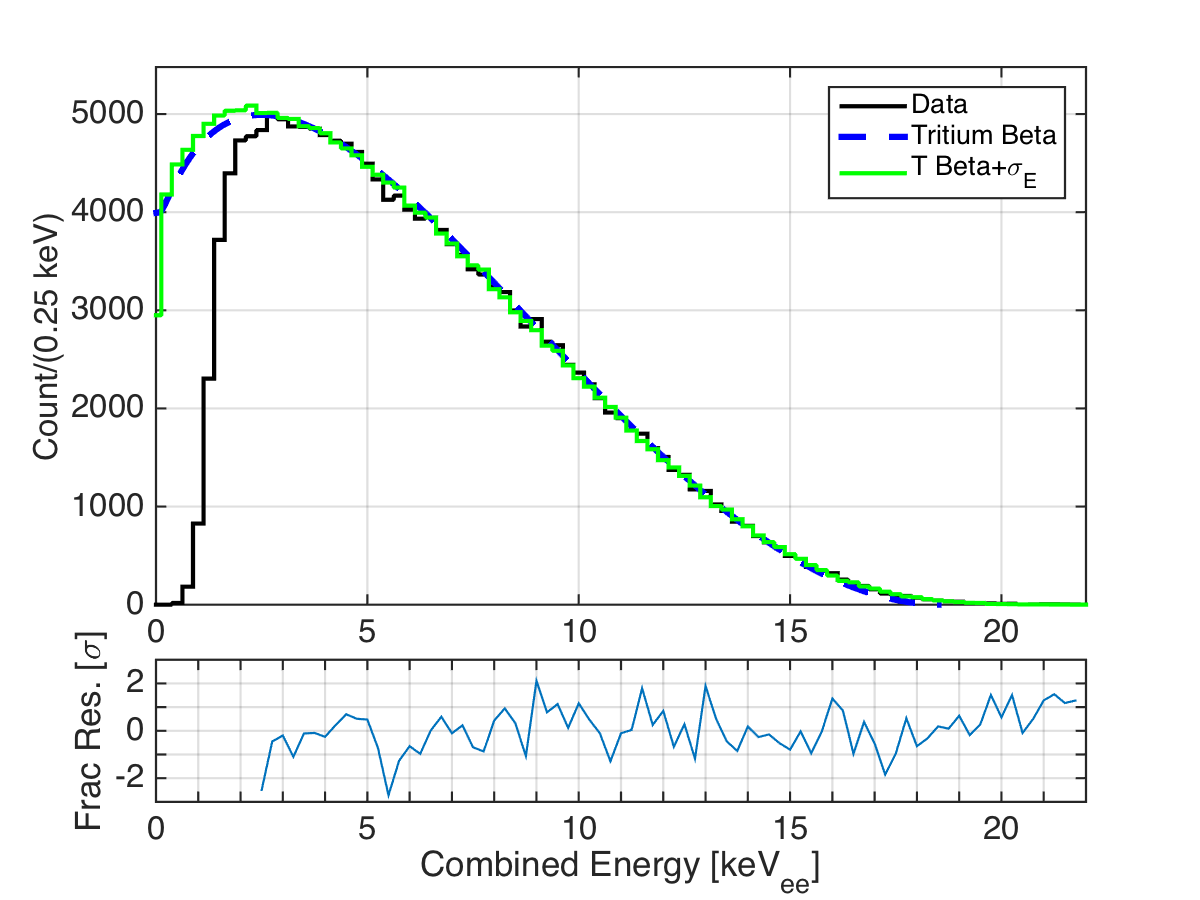
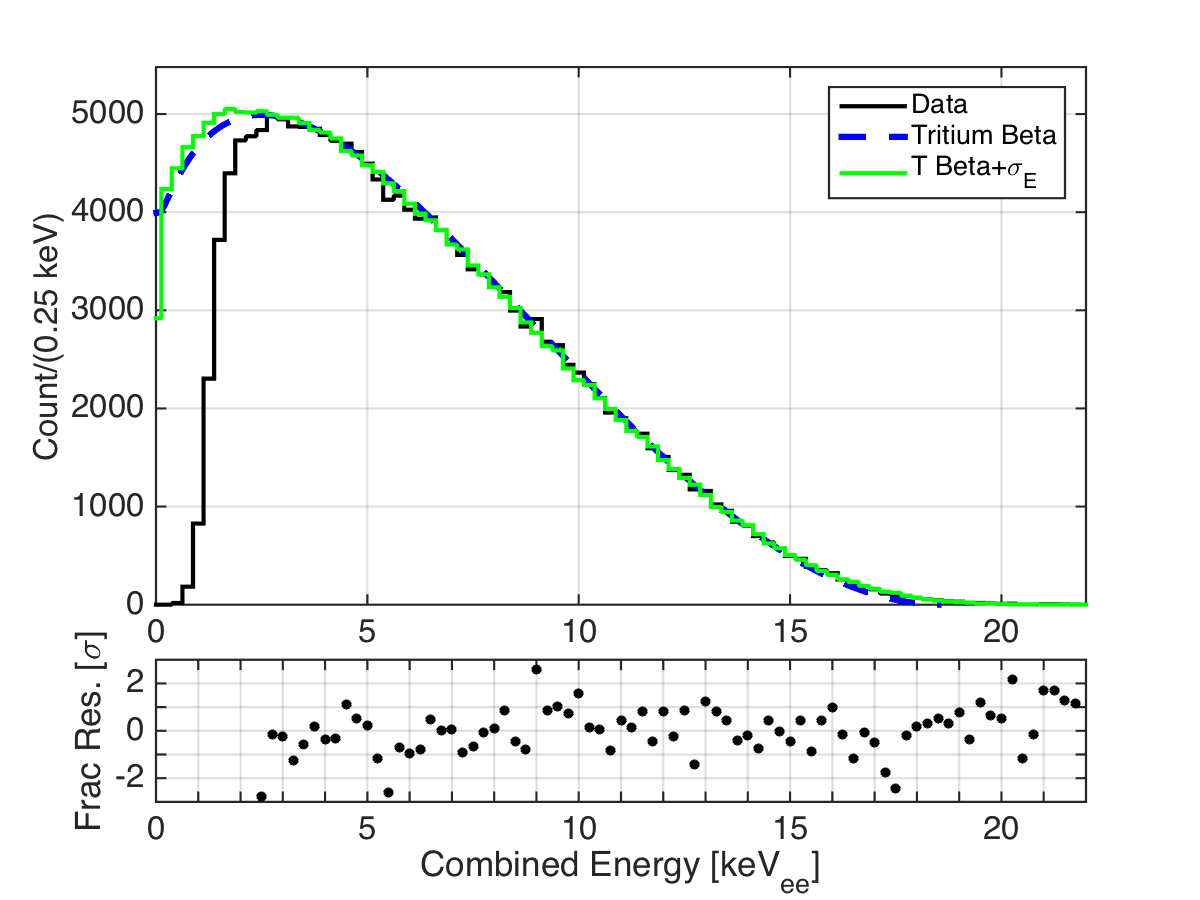
Update to Results Section text and plots

diff --git a/TritiumSVN/Results.tex b/TritiumSVN/Results.tex
@@ -1,41 +1,47 @@
 \section{Results}
 
-At the conclusion of the initial LUX science run, in December of 2013, a total of 10 Bq of tritium was injected into LUX and removed. A total 325,000 events were observed in the active volume of LUX. 183,000 events occurred in the fiducial volume at the nominal LUX electric field of 180 V/cm, while 4,500 fiducial events were collected in a special run at a reduced field of 100 V/cm. The S1 and S2 signals are corrected for spatial effects such as the light collection efficiency and the free electron lifetime with $^{83m}$Kr data as described in \cite{lux-reanalysis} and in further detail in \cite{Dobi_Thesis}. 
+At the conclusion of the initial LUX science run, in December of 2013, a total of 10 Bq of tritium was injected into LUX and removed. A total 325,000 events were observed in the active volume of LUX. 183,000 events occurred in the fiducial volume at the nominal LUX electric field of 180 V/cm with about 4 of those being due to non-tritium energy deposits. Another set with 4,500 fiducial events was collected in a special run at a reduced field of 105 V/cm. The S1 and S2 signals are corrected for spatial effects such as the light collection efficiency and the free electron lifetime with $\rm ^{83m}$Kr data as described in \cite{lux-reanalysis} and in further detail in \cite{Dobi_Thesis}. 
 
-We interpret the data in terms of the combined energy model \cite{Platzman}, where the total energy of an event is directly proportional to the number of quanta produced (electrons plus scintillation photons):
+For an electronic recoil (ER), the light and charge created result from excitation and ionization produced by the recoiling electron. Excitons and recombining electron ion pairs will each produce a single 175 nm photon, electrons that escape recombination are extracted at the expense of a single photon. We interpret the data in terms of the combined energy model for electron recoils \cite{Platzman}, where the total energy of an event is directly proportional to the number of quanta produced (electrons plus scintillation photons):
 
-\begin{displaymath}
+\begin{equation}
+\begin{split}
+\rm E_{total}= W \cdot (n_i + n_{ex}) \\
 \rm E_{total} = W \cdot (n_{\gamma} + n_e )
-\end{displaymath}
+\label{platzman_eq}
+\end{split}
+\end{equation}
 
 \noindent
-We use a $W$ value of 13.7 $\rm \pm$ 0.2 eV/quanta \cite{Dahl_Thesis}. In LUX $n_{\gamma}$ and $n_e$ are proportional to the S1 and S2 signals, with gain factors $g_1$ and $g_2$:
+Where $\rm E_{total}$ is the energy of the deposition in keV and $\rm n_i$, $\rm n_{ex}$, $\rm n_\gamma$ and $\rm n_e$ are the number of ions, excitons, photons and electrons respectively.We use a $W$ value of 13.7 $\rm \pm$ 0.2 eV/quanta \cite{Dahl_Thesis}, as discussed in section \ref{sec:LXe_Theory}. In LUX $n_{\gamma}$ and $n_e$ are proportional to the S1 and S2 signals, with gain factors $g_1$ and $g_2$: 
+%We use a $W$ value of 13.7 $\rm \pm$ 0.2 eV/quanta \cite{Dahl_Thesis}. In LUX $n_{\gamma}$ and $n_e$ are proportional to the S1 and S2 signals, with gain factors $g_1$ and $g_2$:
 
-\begin{displaymath}
+\begin{equation}
 \rm E_{total} = W \cdot \left(\frac{S1}{g_1} + \frac{S2}{g_2} \right)
-\end{displaymath}
+\label{energy_eq}
+\end{equation}
 
 \noindent
-where S1 and S2 have units of photons detected (phd) and $g_1$ and $g_2$ have units of phd per quanta. $g_1$ is the average light collection efficiency times the average quantum efficiency of the PMT arrays, while $g_2$ is the product of the electron extraction efficiency at the liquid-gas surface and the average single electron size in phd. $g_1$ and $g_2$ were measured for the science run with line source data in LUX as described in Ref. \cite{lux-reanalysis, lux-prd}. For the December 2013 analysis presented in this paper the gains g1 and g2 are constrained by optimizing combined energy model to the true tritium spectral shape \cite{Tritium_Eq_Simpson} convolved with detector resolution \cite{Dobi_Thesis}. We find values of \fixit{$g_1$ = \gone and $g_2$ = \gtwo}, consistent with the values found for the science run.
+where S1 and S2 have units of photons detected (phd) and $g_1$ and $g_2$ have units of phd per quanta. $g_1$ is the average light collection efficiency times the average quantum efficiency of the PMT arrays, while $g_2$ is the product of the electron extraction efficiency at the liquid-gas surface and the average single electron size in phd. $g_1$ and $g_2$ were measured for the science run with line source data in LUX as described in Ref. \cite{lux-reanalysis, lux-prd}. For the December 2013 analysis presented in this paper the gains g1 and g2 are constrained by optimizing the combined energy model to the true tritium spectral shape \cite{Tritium_Eq_Simpson} convolved with detector resolution \cite{Dobi_Thesis}. We find values of $g_1$ = \gone and  $g_2$ = \gtwo, consistent with the values found for the science run.
 
 \begin{figure}[h!]\centering
 \includegraphics[width=90mm]{fig/tritium_scatter.png}
 \caption{Scatter plot of $n_e$ vs $n_{\gamma}$ for 149,000 fiducial tritium events at 180 V/cm. Lines of constant energy are indicated assuming a $W$ value of 13.7 eV/quanta. The data is projected into $n_e$ and $n_{\gamma}$ histograms on each axis.}
-\label{fig:tritium_scatter}
+\label{fig:tritium-scatter}
 \end{figure}
 
 
 \begin{figure}[h!]
 \begin{center}
 \includegraphics[width=90mm]{fig/tritium-spectrum-linear.png}
-\caption{The tritium energy spectrum measured by LUX with the combined energy model (black) compared to several theory models: a pure tritium spectrum (dashed blue), and a tritium spectrum convolved with detector resolution $\frac{\sigma_E}{W} = \sqrt{\sigma_{n_\gamma}^2 + \sigma_{n_e}^2}$ applied, described in \cite{Dobi_Thesis}. }
+\caption{The tritium energy spectrum measured by LUX with the combined energy model (black) compared to several theory models: a pure tritium spectrum (dashed blue), and a tritium spectrum convolved with detector resolution $\rm \frac{\sigma_E}{W} = \sqrt{\sigma_{n_{\gamma_{Det}}}^2 + \sigma_{n_{e_{Det}}}^2}$, described in \cite{Dobi_Thesis}. }
 \label{fig:tritium-spectrum}
 \end{center}
 \end{figure}
 
+%S1 ($\rm \sigma_{n_{\gamma_{Det}}})$ and S2 ($\rm \sigma_{n_{e_{Det}}}$)
 
-
-A scatter plot of $n_e$ vs $n_{\gamma}$ for the tritium data at 180 V/cm is shown in Fig. \ref{fig:tritium-scatter}, along with the projected histograms on each axis. The tritium energy spectrum, obtained by projecting the data along the lines of constant energy, is shown in Fig. \ref{fig:tritium-spectrum}. The data is compared to several models: a pure tritium spectrum, with no detector effects; a spectrum simulated with LUXsim, and a tritium spectrum with a simple energy smearing factor of $\sigma_E = XXXX$ applied. The ratio of the data to the smeared tritium spectrum is shown in Fig. \ref{fig:ER-threshold}, along with a fit to an error function. The ratio indicates that the data is well modeled by the smeared tritium spectrum, and the effective 50\% energy threshold is found to be 1.04 $\pm$ 0.016 keV. 
+A scatter plot of $n_e$ vs $n_{\gamma}$ for the tritium data at 180 V/cm is shown in Fig. \ref{fig:tritium-scatter}, along with the projected histograms on each axis. Contours of constant energy in 1 keV intervals are also plotted, derived from equation \ref{platzman_eq}. Individual events on the plot are smeared by detector resolution and electron-ion pair recombination fluctuations. Detector resolution is comprised of statistical fluctuations in counting photons and electrons in the S1 and S2 channel. The finite resolution in S1 and S2 smear events along the vertical and horizontal axis, respectively. Recombination fluctuations ($\rm \sigma_R$) smear events along the contours of constant energy, and thus cancel out in the combined energy model of Eq.\ref{platzman_eq}. The tritium energy spectrum, obtained by projecting the data along the lines of constant energy, is shown in Fig. \ref{fig:tritium-spectrum}. The data is compared a pure tritium spectrum \cite{Tritium_Eq_Simpson}, with no detector effects, and a tritium spectrum with energy smearing factor of $\rm \frac{\sigma_E}{W} = \sqrt{\sigma_{n_{\gamma_{Det}}}^2 + \sigma_{n_{e_{Det}}}^2}$, described in \cite{Dobi_Thesis}, where $\rm \sigma_{n_{\gamma_{Det}}}$ and $\rm \sigma_{n_{e_{Det}}}$ represent the detector resolution for photon and electron counting. The ratio of the data to the theoretical spectrum is shown in Fig. \ref{fig:ER-threshold}, along with a fit to an error function. The ratio is used to calculate the energy threshold of the detector, the effective 50\% energy threshold is found to be 1.30 $\pm$ 0.013 keV. The good agreement between data and theory to the end of the tritium spectrum demonstrates the linearity of the energy model in Eq.\ref{platzman_eq} down to 2 keV.
 
 \begin{figure}[h!]\centering
 \includegraphics[width=90mm]{fig/E_Thres_Fit.png}
@@ -43,20 +49,30 @@ A scatter plot of $n_e$ vs $n_{\gamma}$ for the tritium data at 180 V/cm is show
 \label{fig:ER-threshold}
 \end{figure}
 
-The mean light yield and charge yield of ER events in LUX are obtained by dividing the mean light and charge signals by the combined energy in each energy bin. The result is shown for 180 V/cm in Fig. \ref{fig:ER-LY-QY}. For these plots a small correction has been applied to the data to account for smearing of tritium events across energy bins due to the detector's resolution \cite{Dobi_Thesis}. 
+The mean light yield and charge yield of ER events in LUX are obtained by dividing the mean light and charge signals by the combined energy in each energy bin. The result is shown for 180 V/cm and 105 V/cm in Fig. \ref{fig:ER-LY-QY} along with NEST model predictions at each field \cite{NEST_2013}. For these plots a small correction has been applied to the data to account for smearing of tritium events across energy bins due to the detector's resolution and the spectral shape \cite{Dobi_Thesis}. We find agreement with Compton scattering measurements of light yield for electron recoils in xenon, shown in Fig. \ref{fig:Re_LY}. At these low energies betas and gammas leave similar track lengths and produce identical yields \cite{NEST_2013}. The calibration using the tritium beta source is applicable to the Compton scatter gamma backgrounds for the WIMP search. Finally, when calibrating with tritiated methane less than 1 part per trillion of methane is mixed into the xenon. We have verified by using an internal $^{83m}Kr$ calibration source that even 1 part per million of methane is too small quench light yield in liquid xenon \cite{Dobi_Thesis}.
 
 \begin{figure}[h!]\centering
 \includegraphics[width=90mm]{fig/ER_LY.png}
 \includegraphics[width=90mm]{fig/ER_QY.png}
-\caption{The light yield and charge yield of ER events in LUX at 180 V/cm compared to NEST v0.98 (2013). The grey bands indicate the systematic errors on $g_1$ and $g_2$, which are fully correlated across all energy bins. $g_1$ is anti-correlated with $g_2$, such that an increase in the charge yield within the grey band must be compensated by an equivalent decrease in the light yield. Upper: Light yield at 180 V/cm. Lower: the charge yield at 180 V/cm.}
+\caption{The light yield and charge yield of ER events in LUX at 180 V/cm (black) and 105 V/cm (blue) compared to NEST v0.98 (2013). The bands indicate the systematic errors on $g_1$ and $g_2$, which are fully correlated across all energy bins. $g_1$ is anti-correlated with $g_2$, such that an increase in the charge yield within the grey band must be compensated by an equivalent decrease in the light yield. Upper: Light yield. Lower: the charge yield. The solid lines represent the NEST model predictions at each field \cite{NEST_2013}.}
 \label{fig:ER-LY-QY}
 \end{figure}
 
  \begin{figure}[h!]\centering
 \includegraphics[width=88mm]{fig/Re_LY_log.png}
-\caption{Scintillation yield relative to the yield of the 32.1 keV decay $\rm^{83}Kr $  vs. Energy. Shaded blue curve is tritium at 100 [V/cm], shaded black curve is tritium at 180 [V/cm], red circles represent a recent Compton scattering measurement at 450 [V/cm]. }
+\caption{Light yield relative to the light yield of the 32.1 keV decay of $\rm^{83}Kr $ at zero field. Shaded blue curve is tritium at 105 [V/cm], shaded black curve is tritium at 180 [V/cm], red circles represent a recent Compton scattering measurement at zero field and 450 [V/cm]. }
 \label{fig:Re_LY}
 \end{figure}
+
+
+As shown in Fig. \ref{fig:ER-LY-QY}, the light yield is observed to increase rapidly from 1 and 6 keV, and then becomes mostly energy independent over the remainder of the tritium spectrum. The charge yield exhibits the complimentary behavior as the sum of the two is a constant equal to $\rm \frac{1}{W}=73$. These effects can also be illustrated by plotting the total number of quanta (photons and electrons or excitons and ions) as a function of energy, as shown in Fig. \ref{fig:quanta-vs-energy}. Also shown in Fig. \ref{fig:quanta-vs-energy} are the total number of quanta assuming a $W$ value of 13.7 eV/quanta (black), and the primary number of ions (violet) and excitons (cyan) prior to recombination assuming an initial exciton-to-ion ratio of 0.2 \cite{alpha-value}. We interpret the charge yield data as a measure the recombination fraction at each energy according to
+
+\begin{displaymath}
+r = \frac{\frac{n_{\gamma}}{n_e} - \alpha}{\frac{n_{\gamma}}{n_e} + 1}
+\end{displaymath}
+
+\noindent
+where $r$ is the recombination fraction and $\alpha$ is the initial exciton-to-ion ratio. The recombination fraction as a function of energy as shown in Fig. \ref{fig:recombination}. Here the falling charge yield and rising light yield between 1 and 6 keV appears as a rapid rise in the recombination fraction. 
 
 
 \begin{figure}[h!]\centering
@@ -68,28 +84,25 @@ The mean light yield and charge yield of ER events in LUX are obtained by dividi
 
 \begin{figure}[h!]\centering
 \includegraphics[width=90mm]{fig/recombination.png}
-\caption{Recombination fraction of ER events at 180 V/cm, assuming an exciton-to-ion ratio of 0.2.}
+\caption{Recombination fraction of ER events at 180 V/cm (black) and 105 V/cm (blue), assuming an exciton-to-ion ratio of 0.2.}
 \label{fig:recombination}
 \end{figure}
 
+Having measured the light and charge yield in-situ we have an understanding of the mean of the electron recoil population for the LUX the WIMP search. To complete the picture we need to understand the variance that lead to the width of the electron recoil band. This is comprise of detector resolution, which is measurable and specific to each detector, and recombination fluctuations. At a given energy the event-to-event standard deviation for the number of recombined ions $\rm \sigma_R$ is shown in Fig. \ref{fig:recomb-flucs}, extracted using a method outlined in \cite{Dobi_Thesis}. $\rm \sigma_R$ is a physical property of xenon and produces and irreducible width to the electron recoil band, even with infinite detector resolution. Currently no models exist to predict recombination fluctuations ($\rm \sigma_R$), thus it is important to measure it in-situ. For the LUX detector conditions we find a linear growth in recombination fluctuations as a function of the number of ions $\rm \sigma_R = (0.062 \pm 0.005)\cdot N_{ions}$, consistent with the measurement in \cite{Dobi_Thesis}.
 
-As shown in Fig. \ref{fig:ER-LY-QY}, the light yield is observed to drop rapidly between 1 and 6 keV, and then becomes mostly energy independent over the remainder of the tritium spectrum. The charge yield exhibits the reverse behavior. These effects can also be illustrated by plotting the total number of quanta as a function of energy, as shown in Fig. \ref{fig:quanta-vs-energy} for tritium events between 1 and 8 keV. Also shown in Fig. \ref{fig:quanta-vs-energy} are the total number of quanta assuming a $W$ value of 13.7 eV/quanta (black), and the primary number of ions (violet) and excitons (cyan) prior to recombination assuming an initial exciton-to-ion ratio of 0.2 \cite{alpha-value}. We interpret the charge yield data as a measure the recombination fraction at each energy according to
+\begin{figure}[h!]\centering
+\includegraphics[width=90mm]{fig/recomb_flucs.png}
+\caption{Black: recombination fluctuations extracted by a method described in \cite{Dobi_Thesis}. Dot-dash blue: Detector resolution for counting photons. Dashed magenta: Detector resolution for counting electrons. The efficiency for detecting events falls below 95\% below 2 $\rm keV_{ee}$.}
+\label{fig:recomb-flucs}
+\end{figure}
 
-\begin{displaymath}
-r = \frac{\frac{n_{\gamma}}{n_e} - \alpha}{\frac{n_{\gamma}}{n_e} + 1}
-\end{displaymath}
-
-\noindent
-where $r$ is the recombination fraction and $\alpha$ is the initial exciton-to-ion ratio. The recombination fraction as a function of energy as shown in Fig. \ref{fig:recombination}. Here the falling charge yield and rising light yield between 1 and 6 keV appears as a rapid rise in the recombination fraction. 
+We obtain the LUX ER band by plotting log$_{10}$(S2/S1) vs S1 as shown in Fig. \ref{fig:ER_band}, this is analogous to plotting the ratio of the charge-to-light ratio vs S1. Also shown is the LUX NR band measured with DD neutron generator data. The ER band has a characteristic rise at low S1 which reflects the increasing charge yield and decreasing light yield below 4 keVee, as seen in Fig. \ref{fig:quanta-vs-energy}. The leakage fraction ($f$), defined as the fraction of ER events that fall below the mean of the NR band, is shown in Fig. \ref{fig:Leak} as a function of S1. The recoil discrimination ($1-f$) has an average value of \fixit{99.8\%} for events with S1 between 1 and 50 phd.
 
 \begin{figure}[h!]\centering
 \includegraphics[width=100mm]{fig/CH3T_ER_Band.png}
-\caption{The electron recoil band of LUX illuminated by 115,000 tritium events at the nominal LUX electric field of 180 V/cm.  The recoil discriminant variable, log(S2/S1), is shown vs. S1 between 1 and 50 phe in S1 (about $\rm1-8 keV_{ee}$). Also indicated in black are the mean and the 10\% and 90\% contours. The solid red line represents the mean NR band determined with NEST v0.98 (2013) \cite{nest} and validated with AmBe and $\rm^{252}Cf$ neutron sources and the DD neutron generator data. The dashed red indicates the 10\% and 90\% contours of the NR band.}
+\caption{The electron recoil band of LUX illuminated by 130,000 tritium events at the nominal LUX electric field of 180 V/cm.  The recoil discriminant variable, log(S2/S1), is shown vs. S1 between 1 and 50 phd in S1 (about $\rm1-8 keV_{ee}$). Also indicated in black are the mean and the 10\% and 90\% contours. The solid red line represents the mean NR band determined with DD neutron generator data. The dashed red indicates the 10\% and 90\% contours of the NR band.}
 \label{fig:ER_band}
 \end{figure}
-
-We obtain the LUX ER band by plotting log$_{10}$(S2/S1) vs S1 as shown in Fig. \ref{fig:ER_band}. Also shown is the LUX NR band determined with NEST v0.98 (2013) \cite{nest} and validated with AmBe and $\rm^{252}Cf$ neutron sources and DD neutron generator data. The ER band has a characteristic rise at low S1 which reflects the increasing charge yield and decreasing light yield below 4 keVee, as seen in Fig. \ref{fig:quanta-vs-energy}. The leakage fraction ($f$), defined as the fraction of ER events that fall below the mean of the NR band, is shown in Fig. \ref{fig:Leak} as a function of S1. The recoil discrimination ($1-f$) has an average value of \fixit{99.58\%} for events with S1 between 1 and 30 phe.
-
 
 \begin{figure}[h!]\centering
 \includegraphics[width=90mm]{fig/CH3T_Leakage_Run03.png}
@@ -97,5 +110,6 @@ We obtain the LUX ER band by plotting log$_{10}$(S2/S1) vs S1 as shown in Fig. \
 \label{fig:Leak}
 \end{figure}
 
+Using the information obtained from the tritium calibration source we can fully characterize the electron recoil band for the LUX WIMP search. The mean light and charge yield measure the mean location of the electron recoil population and the variance arrises from detector resolution convolved with recombination fluctuations. The tritium calibration allows for a detailed measure of the underlying properties of electron recoils and thus an improves background modeling for any dark matter experiment.
 %%%%%%%%%%%%%%%%%%%%%%%%%%%%%%%%%%%%%%%%%%%%%%%%%%%%%%%%%%
 

diff --git a/TritiumSVN/Introduction.tex b/TritiumSVN/Introduction.tex
@@ -6,8 +6,8 @@ LUX is a dual-phase liquid xenon (LXe) time projection chamber (TPC) located at 
 
 LUX is monitored and calibrated with beta sources that can be dissolved in the LXe. External gamma sources, such as \cssrc or \thsrc, are unable to produce a useful rate of fiducial single-scatter calibration events in the WIMP region of interest ($\sim$1 - 8 keVee) due to self-shielding. This effect is substantial in LUX because of the large active mass (270 kg) and favorable aspect ratio (50 cm diameter and 60 cm height). Two internal calibration sources,  \krsrc\cite{Kastens:2009rt, baudis} and tritium ($^{3}$H), have been deployed in LUX, both providing a large sample of spatially uniform events. \krsrc is a source of 9.4 keV and 32.1 keV internal conversion  (IC) electrons and is well-suited for monitoring and correcting the spatial and time variations of the S1 and S2 signals. \krsrc is unable, however, to characterize the S2/S1 electron-recoil discriminant variable, or to probe the detector threshold, because both IC electrons are above the dark matter energy range, and because the S2 signals from the two electrons generally overlap in the detector.
 
-In this article we report results from the calibration of LUX with tritium, a single-beta emitter with a Q value of 18.6 keVee \cite{Tritium_Q}. \fixit{ Its mean decay energy is 5.6 keVee \cite{Tritium_Mean} with a broad peak at 3.0 keVee. 75\% of its beta decays are below 8 keVee \cite{Tritium_Eq}.} These characteristics make it an ideal source for studying the ER response of LUX in the dark matter energy range. 
+In this article we report results from the calibration of LUX with tritium, a single-beta emitter with a Q value of 18.6 keVee \cite{Tritium_Q}. \fixit{ Its mean decay energy is 5.6 keVee \cite{Tritium_Mean} with a broad peak at 2.5 keVee. 75\% of its beta decays are below 8 keVee \cite{Tritium_Eq}.} These characteristics make it an ideal source for studying the ER response of LUX in the dark matter energy range. 
 
 Tritium must be removed from the detector by purification due to its long half-life (12.3 years\cite{Tritium_halflife_all}), and should only be introduced into the experiment in a manner that will not impair the detector's charge or light collection properties. We use tritiated methane (CH$_3$T) as the host molecule to deliver tritium activity into LUX. Compared to molecular tritium (T$_2$), CH$_3$T has several advantages. It does not adsorb onto surfaces like the T$_2$ molecule, and it does not interfere with charge transport in LXe. Also, diffusion of tritium activity into the plastic detector parts is an important concern, since such activity may later re-contaminate the LXe during the WIMP search runs.  This risk is mitigated by CH$_3$T due to its larger molecular size and lower diffusion constant and solubility. To study the contamination risk of the CH$_3$T calibration, we performed a series of experiments with a small LXe detector and samples of LUX plastics. These tests demonstrated that the injection and removal could be done without undue risk to the experiment. These experiments are described in Appendix \ref{sec:appendix}.
 
-An initial tritium dataset of $\sim$ 7,000 fiducial events was obtained by LUX in August of 2013, and the results were reported in Ref. \cite{lux-prl}. Subsequently, in December 2013, we injected additional activity with a higher rate and obtained a fiducial tritium dataset of over 150,000 events. This dataset is used to calibrate the LUX ER band in Ref. \cite{lux-reanalysis}. Except where otherwise noted, in this article we report results from the larger December 2013 dataset.
+An initial tritium dataset of $\sim$ 7,000 fiducial events was obtained by LUX in August of 2013, and the results were reported in Ref. \cite{lux-prl}. Subsequently, in December 2013, we injected additional activity with a higher rate and obtained a fiducial tritium dataset of over 180,000 events. This dataset is used to calibrate the LUX ER band in Ref. \cite{lux-reanalysis} in-situ removing systematics from relying on simulations and interpolation of data from other detectors. Except where otherwise noted, in this article we report results from the larger December 2013 dataset.
